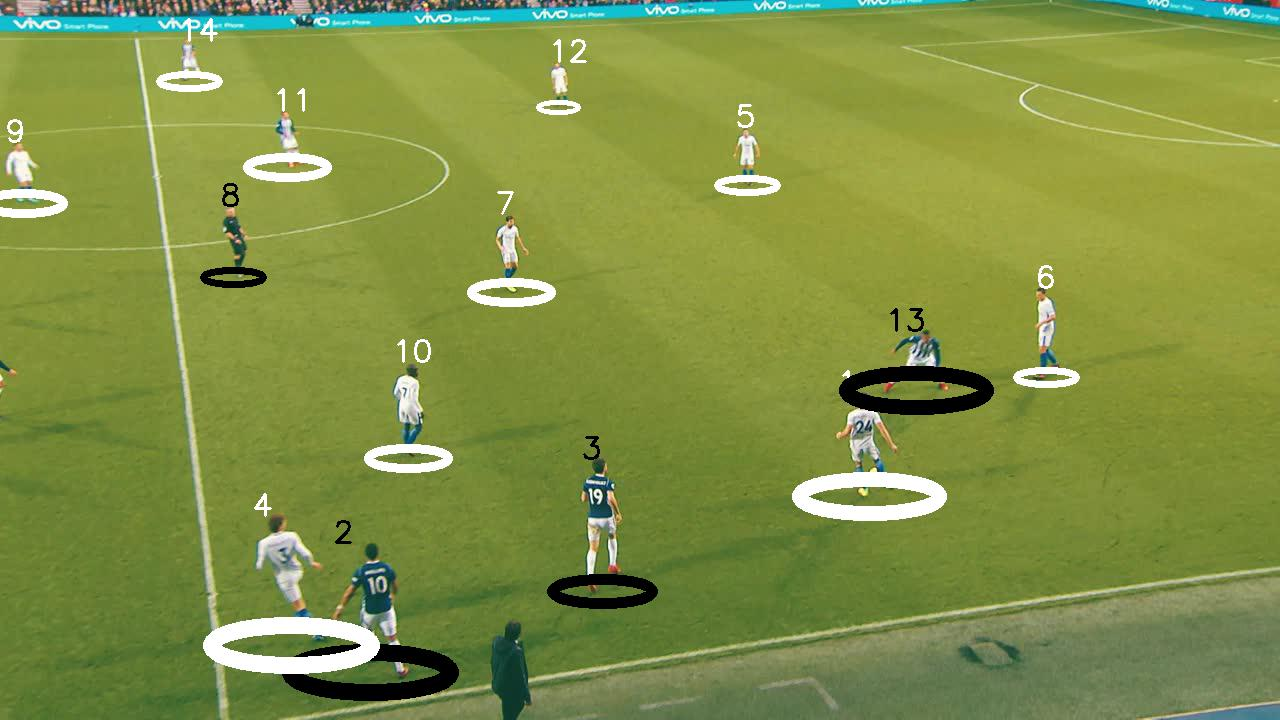
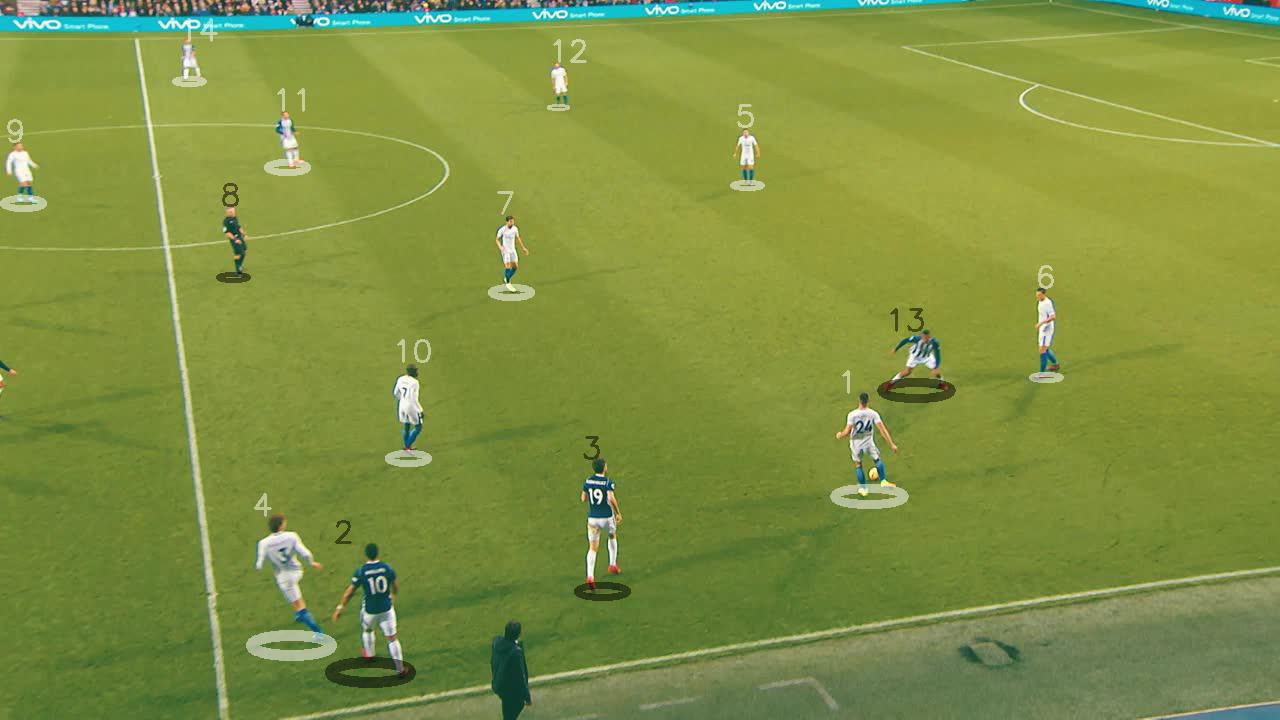
updated look of playing circles

diff --git a/image_utils.py b/image_utils.py
@@ -149,8 +149,8 @@ def draw_player_with_tracks(image_np, tracks, force=False, alpha=0.5):
         bbox = track.to_tlbr()
         center = (int((bbox[2] + bbox[0])/2), int(bbox[3]))
         x_length = _ceil_(bbox[2] - bbox[0])
-        axes = (x_length, int(x_length/4)) # x length, y length
-        thickness = int(x_length/5) #int(axes[1]/2)
+        axes = (int(x_length/2), int(x_length/8)) # x length, y length
+        thickness = int(x_length/8) #int(axes[1]/2)
 
         #cv2.rectangle(image_np, (int(bbox[0]), int(bbox[1])), (int(bbox[2]), int(bbox[3])), classified_colours[track.team_id], 2)
         cv2.ellipse(overlay, center, axes, 0, 0, 360, color=classified_colours[track.team_id], thickness=thickness)
